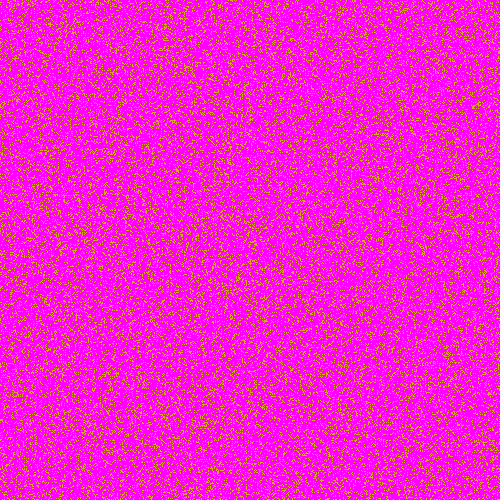
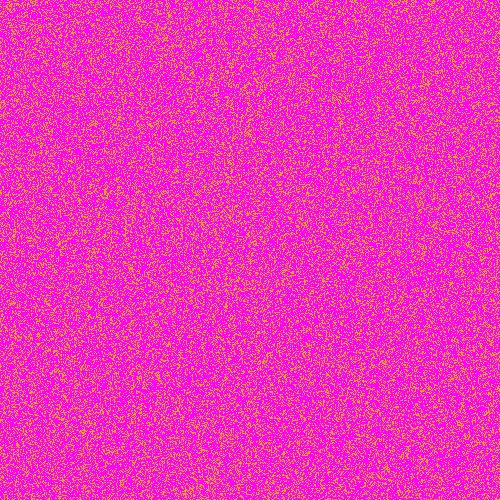
a

diff --git a/src/ExampleApp.cpp b/src/ExampleApp.cpp
@@ -25,6 +25,7 @@ ExampleApp::ExampleApp(int argc, char** argv) : VRApp(argc, argv)
 	rotation = mat4(1.0);
 	mouseDown = false;
 	maxHairLength = 0.5f;
+	furCoverage = 0.4f;
 }
 
 ExampleApp::~ExampleApp()
@@ -271,7 +272,8 @@ void ExampleApp::setupGeometry(std::shared_ptr<basicgraphics::Mesh>& _mesh) {
 	}
 
 	////compute the number of opaque pixels = nr of hair strands
-	int nrStrands = (int)(0.25f * totalPixels);
+	int nrStrands = (int)(furCoverage * totalPixels);
+
 
 	////fill texture with opaque pixels
 	for (int i = 0; i < nrStrands; i++)

diff --git a/src/ExampleApp.h b/src/ExampleApp.h
@@ -58,6 +58,8 @@ private:
 	double _lastTime;
 	double _curFrameTime;
 
+    
+    float furCoverage;
     float maxHairLength;
 
     bool mouseDown; // Signifies whether the left mouse button is currently held down.
